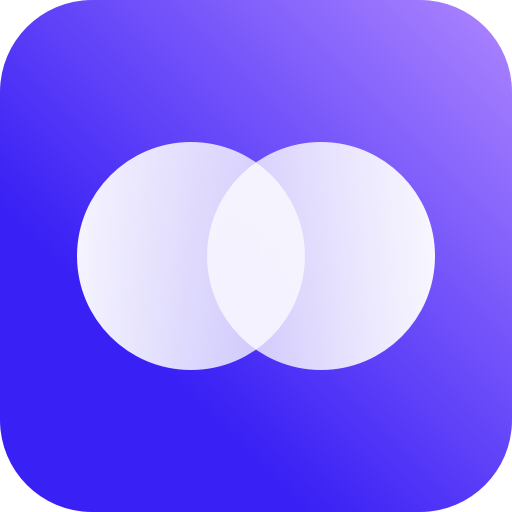
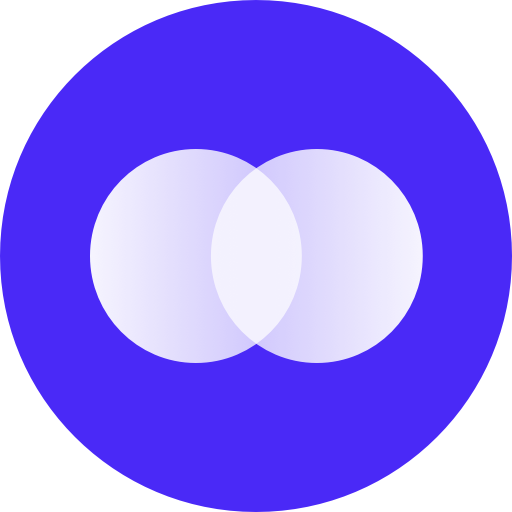
#improvement New branding

diff --git a/src/screens/Settings/Settings.js b/src/screens/Settings/Settings.js
@@ -50,17 +50,17 @@ class Settings extends Component {
     return (
       <View style={STYLE.SCREEN}>
         <View style={[STYLE.CENTERED, styles.content]}>
-          <Text style={styles.name}>{name}</Text>
+          <Image style={styles.brandname} source={ASSET.brandname} />
           <Text style={styles.text}>v{version}</Text>
         </View>
         <View style={styles.form}>
           <Touchable onPress={_onModal}>
-            <View style={[STYLE.LIST_ITEM, styles.fieldset]}>
+            <View style={STYLE.LIST_ITEM}>
               <Text style={styles.label}>{LOCAL_CURRENCY}</Text>
               <Text style={styles.value}>{currency}</Text>
             </View>
           </Touchable>
-          <View style={[STYLE.LIST_ITEM, styles.fieldset]}>
+          <View style={STYLE.LIST_ITEM}>
             <View>
               <Text style={styles.label}>{LANGUAGE}</Text>
               <Text style={[styles.value, styles.disabled]}>{language}</Text>

diff --git a/src/screens/Alerts/components/ModalAlert.js b/src/screens/Alerts/components/ModalAlert.js
@@ -67,14 +67,14 @@ class ModalAlert extends Component {
         <View style={[STYLE.ROW, STYLE.LIST_ITEM, styles.content]}>
           <Input
             autoFocus
-            defaultValue={item && low && low.toString()}
+            defaultValue={item && low ? low.toString() : undefined}
             editable={!alert}
             placeholder="low"
             style={styles.input}
             onChangeText={_onChange.bind(null, 'low')} //eslint-disable-line
           />
           <Input
-            defaultValue={item && high && high.toString()}
+            defaultValue={item && high ? high.toString() : undefined}
             editable={!alert}
             placeholder="high"
             style={[styles.input, styles.inputRight]}

diff --git a/src/config/assets.js b/src/config/assets.js
@@ -1,3 +1,4 @@
+const brandname = require('../../assets/app-brandname.png');
 const logo = require('../../assets/app-logo.png');
 const sohobase = require('../../assets/app-sohobase.png');
 
@@ -16,6 +17,7 @@ const star = require('../../assets/icon-star.png');
 const wallet = require('../../assets/icon-wallet.png');
 
 export default {
+  brandname,
   logo,
   sohobase,
 

diff --git a/src/config/theme.js b/src/config/theme.js
@@ -17,8 +17,8 @@ export default {
   // -- Colors
   WHITE,
   BLACK,
-  PRIMARY: '#3920F5',
-  ACCENT: '#C668FD',
+  PRIMARY: '#4A29F7',
+  ACCENT: '#C363FD',
   CONTRAST: 'rgba(255, 255, 255, 0.75)',
   COLOR_LOW: 'rgba(255,0,0,0.35)',
   COLOR_HIGH: 'rgba(0,255,0,0.35)',

diff --git a/src/screens/Settings/Settings.style.js b/src/screens/Settings/Settings.style.js
@@ -17,8 +17,10 @@ export default StyleSheet.create({
     borderTopWidth: 1,
   },
 
-  fieldset: {
-
+  brandname: {
+    tintColor: THEME.FONT_PRIMARY_COLOR,
+    height: THEME.FONT_SIZE_LARGE,
+    resizeMode: 'contain',
   },
 
   label: {
